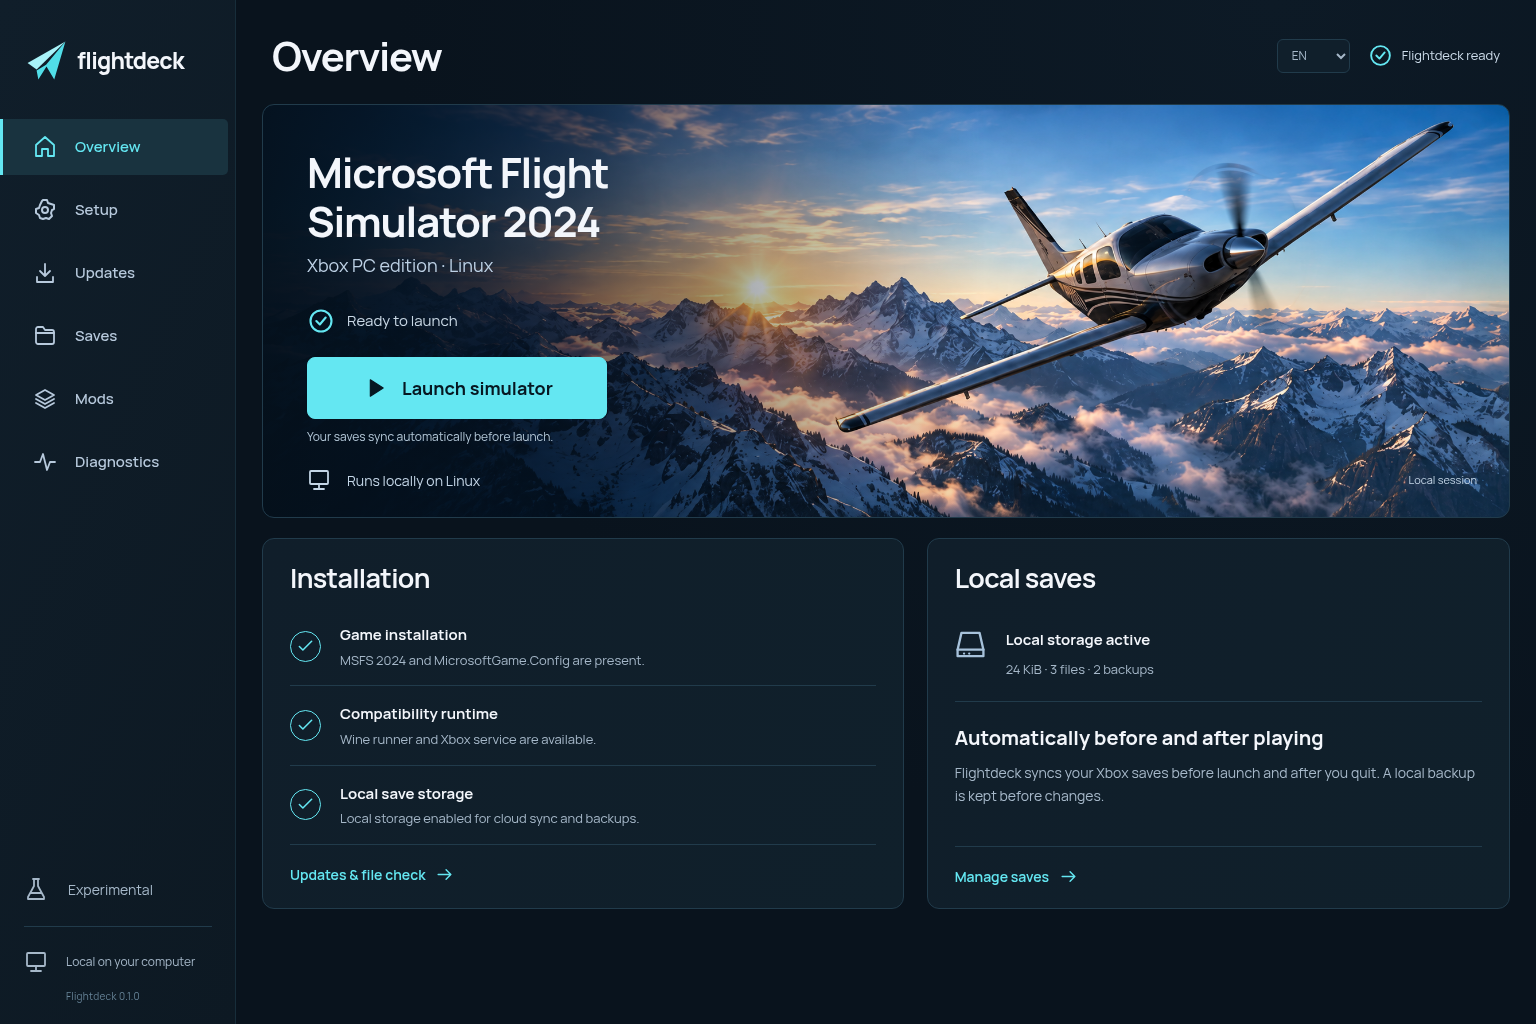
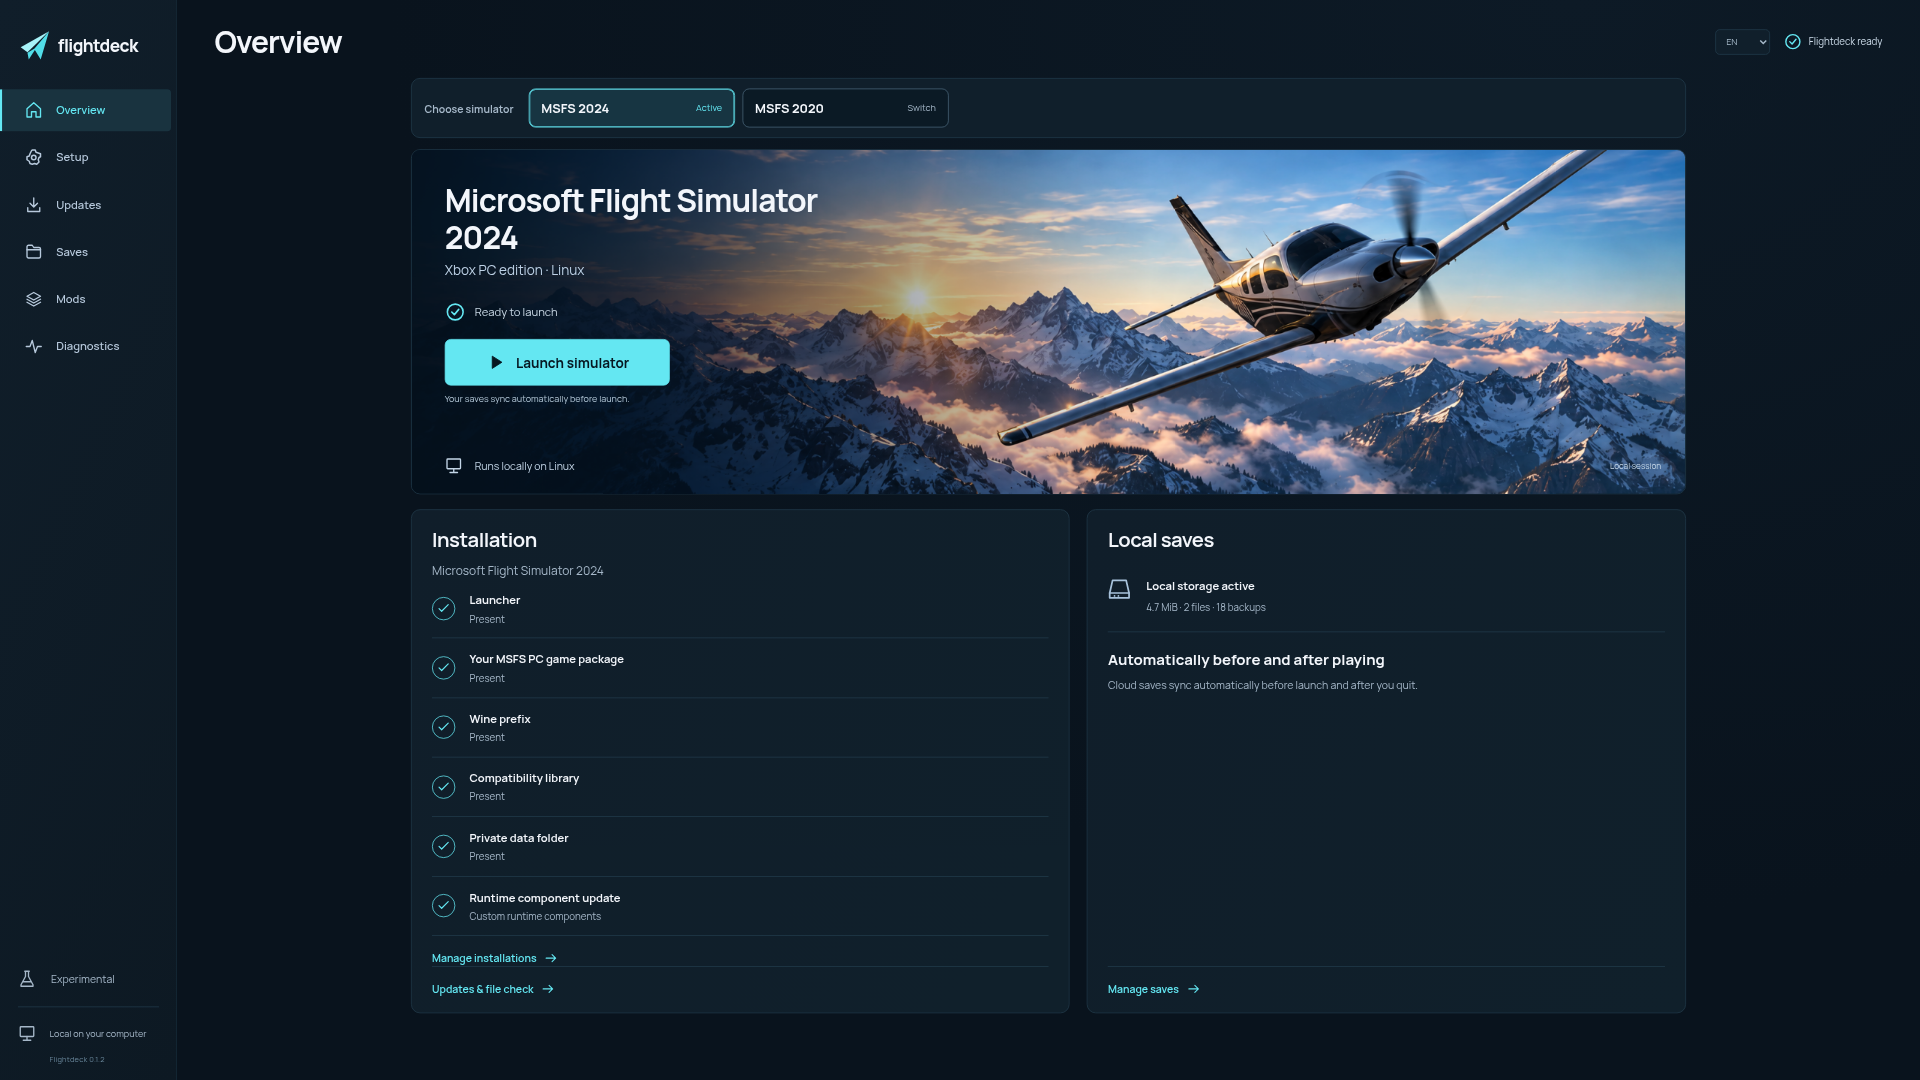
Refresh launcher screenshot for Flightdeck 0.1.2

diff --git a/scripts/check-source-export.py b/scripts/check-source-export.py
@@ -18,7 +18,7 @@ EXTENSIONS = {".py", ".sh", ".md", ".txt", ".json", ".toml", ".lock", ".patch",
 NAMES = {"LICENSE", "COPYING", "COPYING.LIB", ".gitignore", "Makefile", "xodus-wine-launch"}
 # Permit only individually reviewed binary assets, never arbitrary local files.
 ASSETS = {
[5 lines of base64/hex data omitted]

diff --git a/README.md b/README.md
@@ -97,7 +97,7 @@ Installing missing Linux system packages may require administrator rights.
 
 ![Flightdeck launcher overview](docs/images/launcher-overview.png)
 
-<sub>Flightdeck launcher shown with example installation data.</sub>
+<sub>Flightdeck 0.1.2 overview with simulator selection, shown in English.</sub>
 
 | Area | What you can do |
 | :--- | :--- |

diff --git a/docs/readme.de.md b/docs/readme.de.md
@@ -105,7 +105,7 @@ Die Installation fehlender Linux-Systempakete kann Administratorrechte benötige
 
 ![Flightdeck-Übersicht](images/launcher-overview.png)
 
-<sub>Der Launcher mit Beispieldaten einer Installation.</sub>
+<sub>Flightdeck 0.1.2 mit Simulatorauswahl, hier in der englischen Oberfläche.</sub>
 
 | Bereich | Funktion |
 | :--- | :--- |
